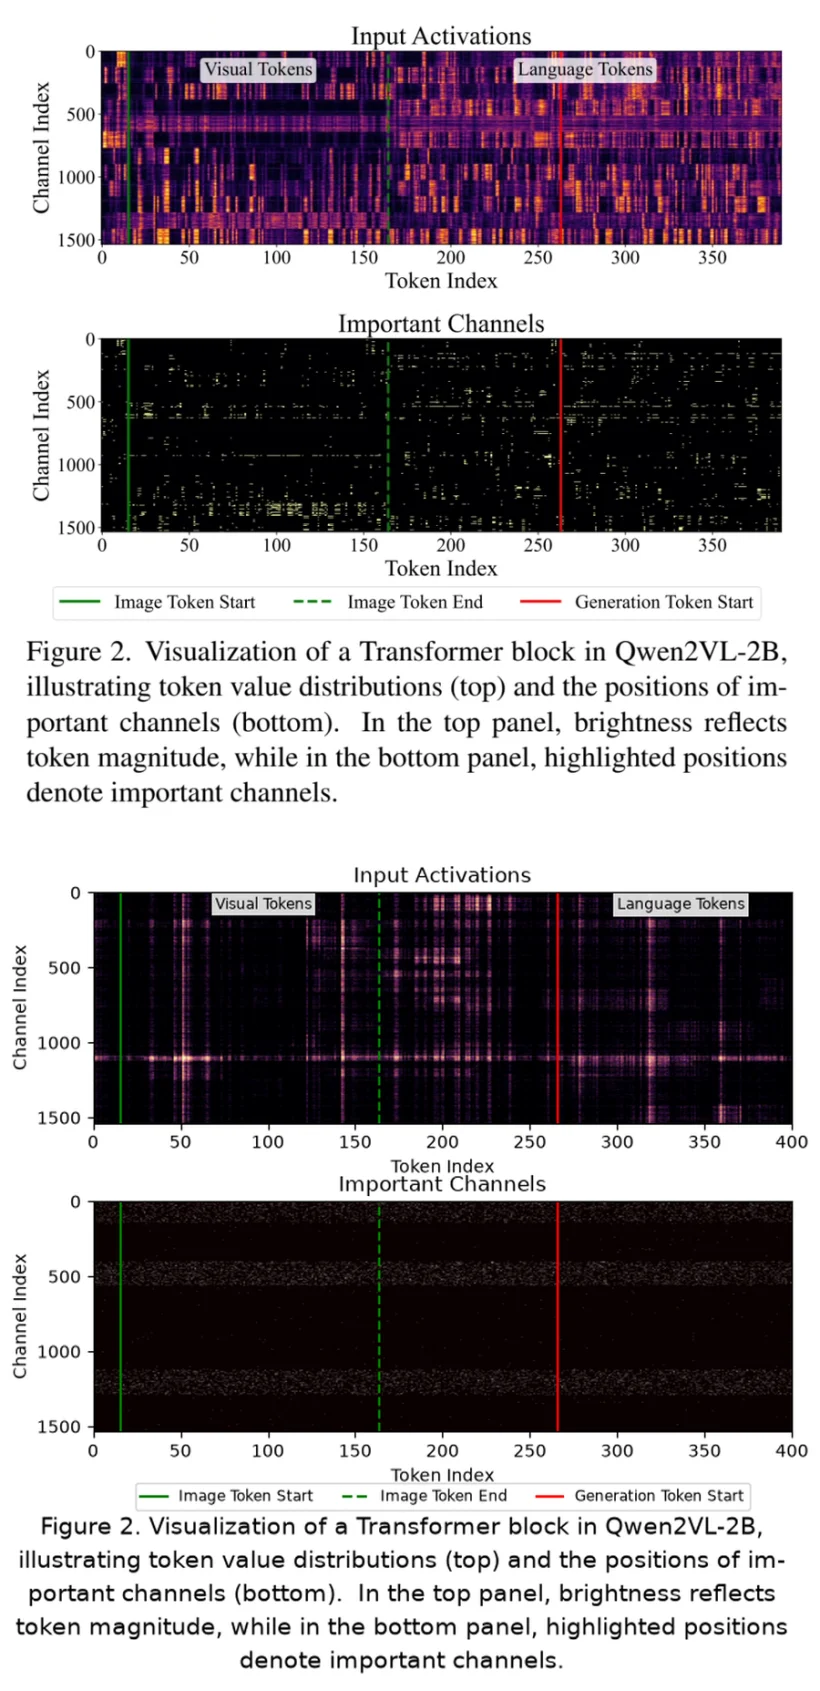
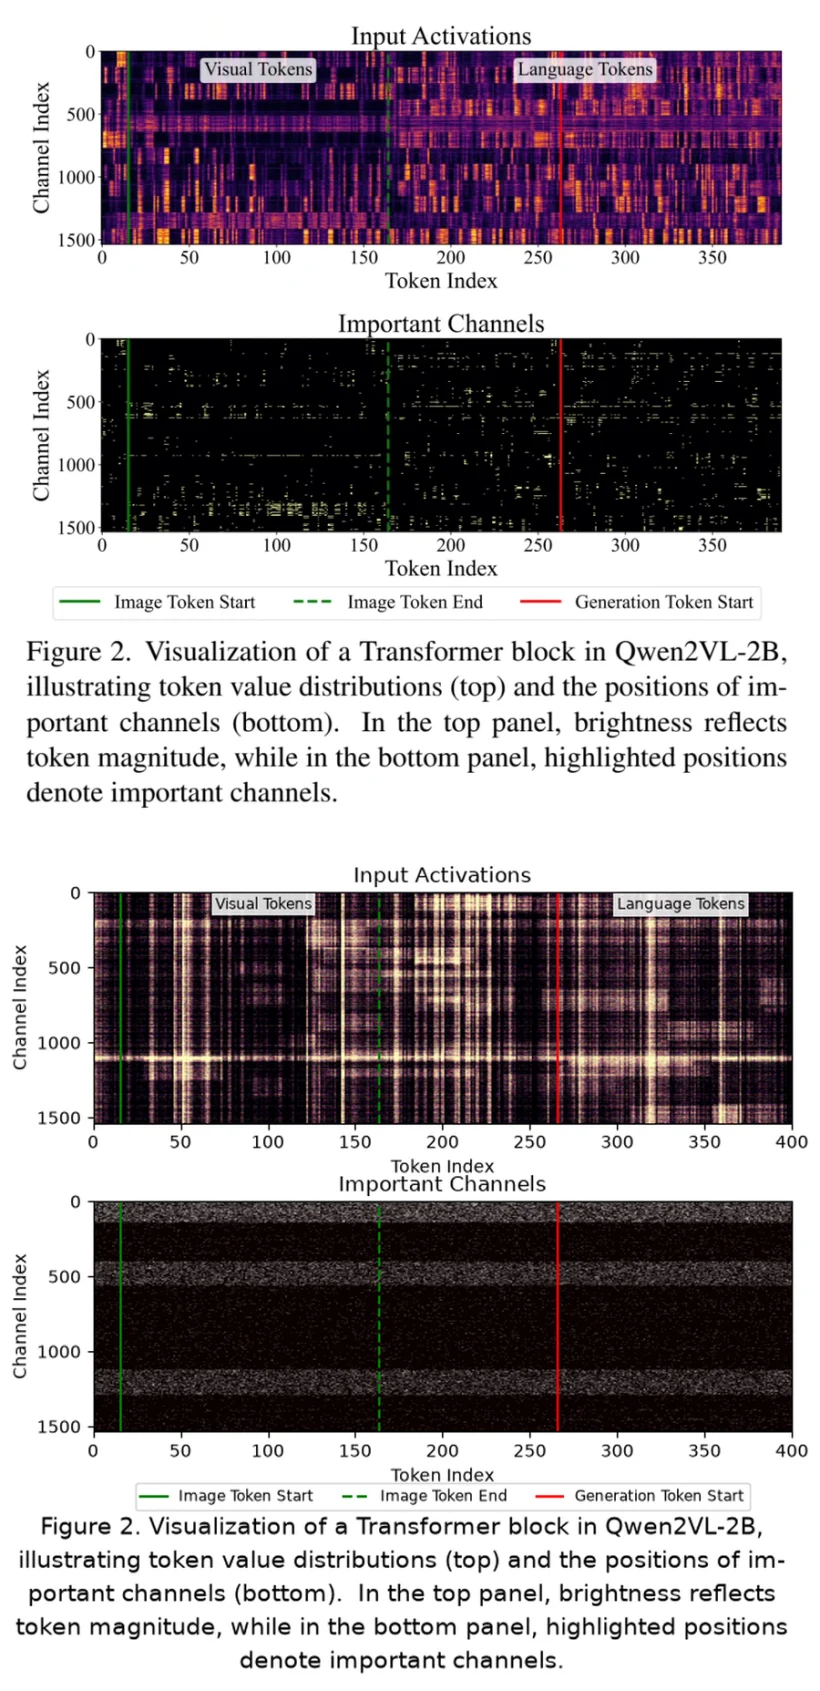
improve(replicas): 第四十三轮 —— 09 亮度直方图对齐原图
之前只盯 ink 指标来回调，结果越调越黑。改用**亮度三段分布**（暗<80/中80-180/亮>180）对比：

  原图 top: 暗 0.41 / 中 0.08 / 亮 0.51，均值 151
  修前 top: 暗 0.56 / 中 0.02 / 亮 0.42，均值 113  ← 整体偏暗
  现在 top: 暗 0.44 / 中 0.11 / 亮 0.45，均值 136

关键动作：把 vmin/vmax 从 86%/99.8% 分位改成 **62%/90% 分位**——
窄区间让大量像素 clamp 到 colormap 两端，形成原图那种「黑底+亮条」的双峰分布，
同时保留中间调过渡（区间过窄会变成生硬的格纹）。

下图：点密度 0.045 → 0.20、通道带 0.025-0.06 → 0.10-0.22，vmax 0.35 → 0.22（点更白）

Changed region(s): [[0.0915, 0.5228, 0.9756, 0.6765], [0.122, 0.7073, 0.9756, 0.7688], [0.122, 0.7995, 0.9756, 0.8303]]

diff --git a/tools/figlab/replicas.py b/tools/figlab/replicas.py
@@ -576,7 +576,7 @@ def fig09():
     act_disp = act_disp ** 0.42
     ax.imshow(act_disp, aspect="auto", cmap="magma", origin="upper",
               extent=[0, n_tok, n_ch, 0],
-              vmin=np.percentile(act_disp, 86), vmax=np.percentile(act_disp, 99.8))
+              vmin=np.percentile(act_disp, 62), vmax=np.percentile(act_disp, 90))
     ax.set_title("Input Activations", fontsize=12)
     ax.set_ylabel("Channel Index", fontsize=10)
     ax.set_xlabel("Token Index", fontsize=10)
@@ -589,19 +589,19 @@ def fig09():
 
     # (下) 重要通道：密集亮点 + 通道带聚集（原图是横贯全宽的亮条纹）
     imp = np.zeros((n_ch, n_tok))
-    base_dens = rng.beta(0.35, 12.0, n_ch) * 0.045   # 每通道基础密度（稀疏）
+    base_dens = rng.beta(0.50, 6.0, n_ch) * 0.20    # 每通道基础密度
     for ci in range(n_ch):
         if base_dens[ci] > 0.004:
             cols = rng.random(n_tok) < base_dens[ci]
             imp[ci, cols] = rng.uniform(0.45, 1.0, cols.sum())
     # 强调通道带（对应上图高亮区）
     for lo, hi in [(0, 140), (400, 560), (1120, 1290)]:
-        band = rng.random((hi - lo, n_tok)) < rng.uniform(0.025, 0.06)
+        band = rng.random((hi - lo, n_tok)) < rng.uniform(0.10, 0.22)
         imp[lo:hi, :] = np.maximum(imp[lo:hi, :], band * rng.uniform(0.9, 1.0))
 
     ax = axes[1]
     ax.imshow(imp, aspect="auto", cmap="hot", origin="upper",
-              extent=[0, n_tok, n_ch, 0], vmin=0, vmax=0.35)
+              extent=[0, n_tok, n_ch, 0], vmin=0, vmax=0.22)
     ax.set_title("Important Channels", fontsize=12)
     ax.set_ylabel("Channel Index", fontsize=10)
     ax.set_xlabel("Token Index", fontsize=10)
